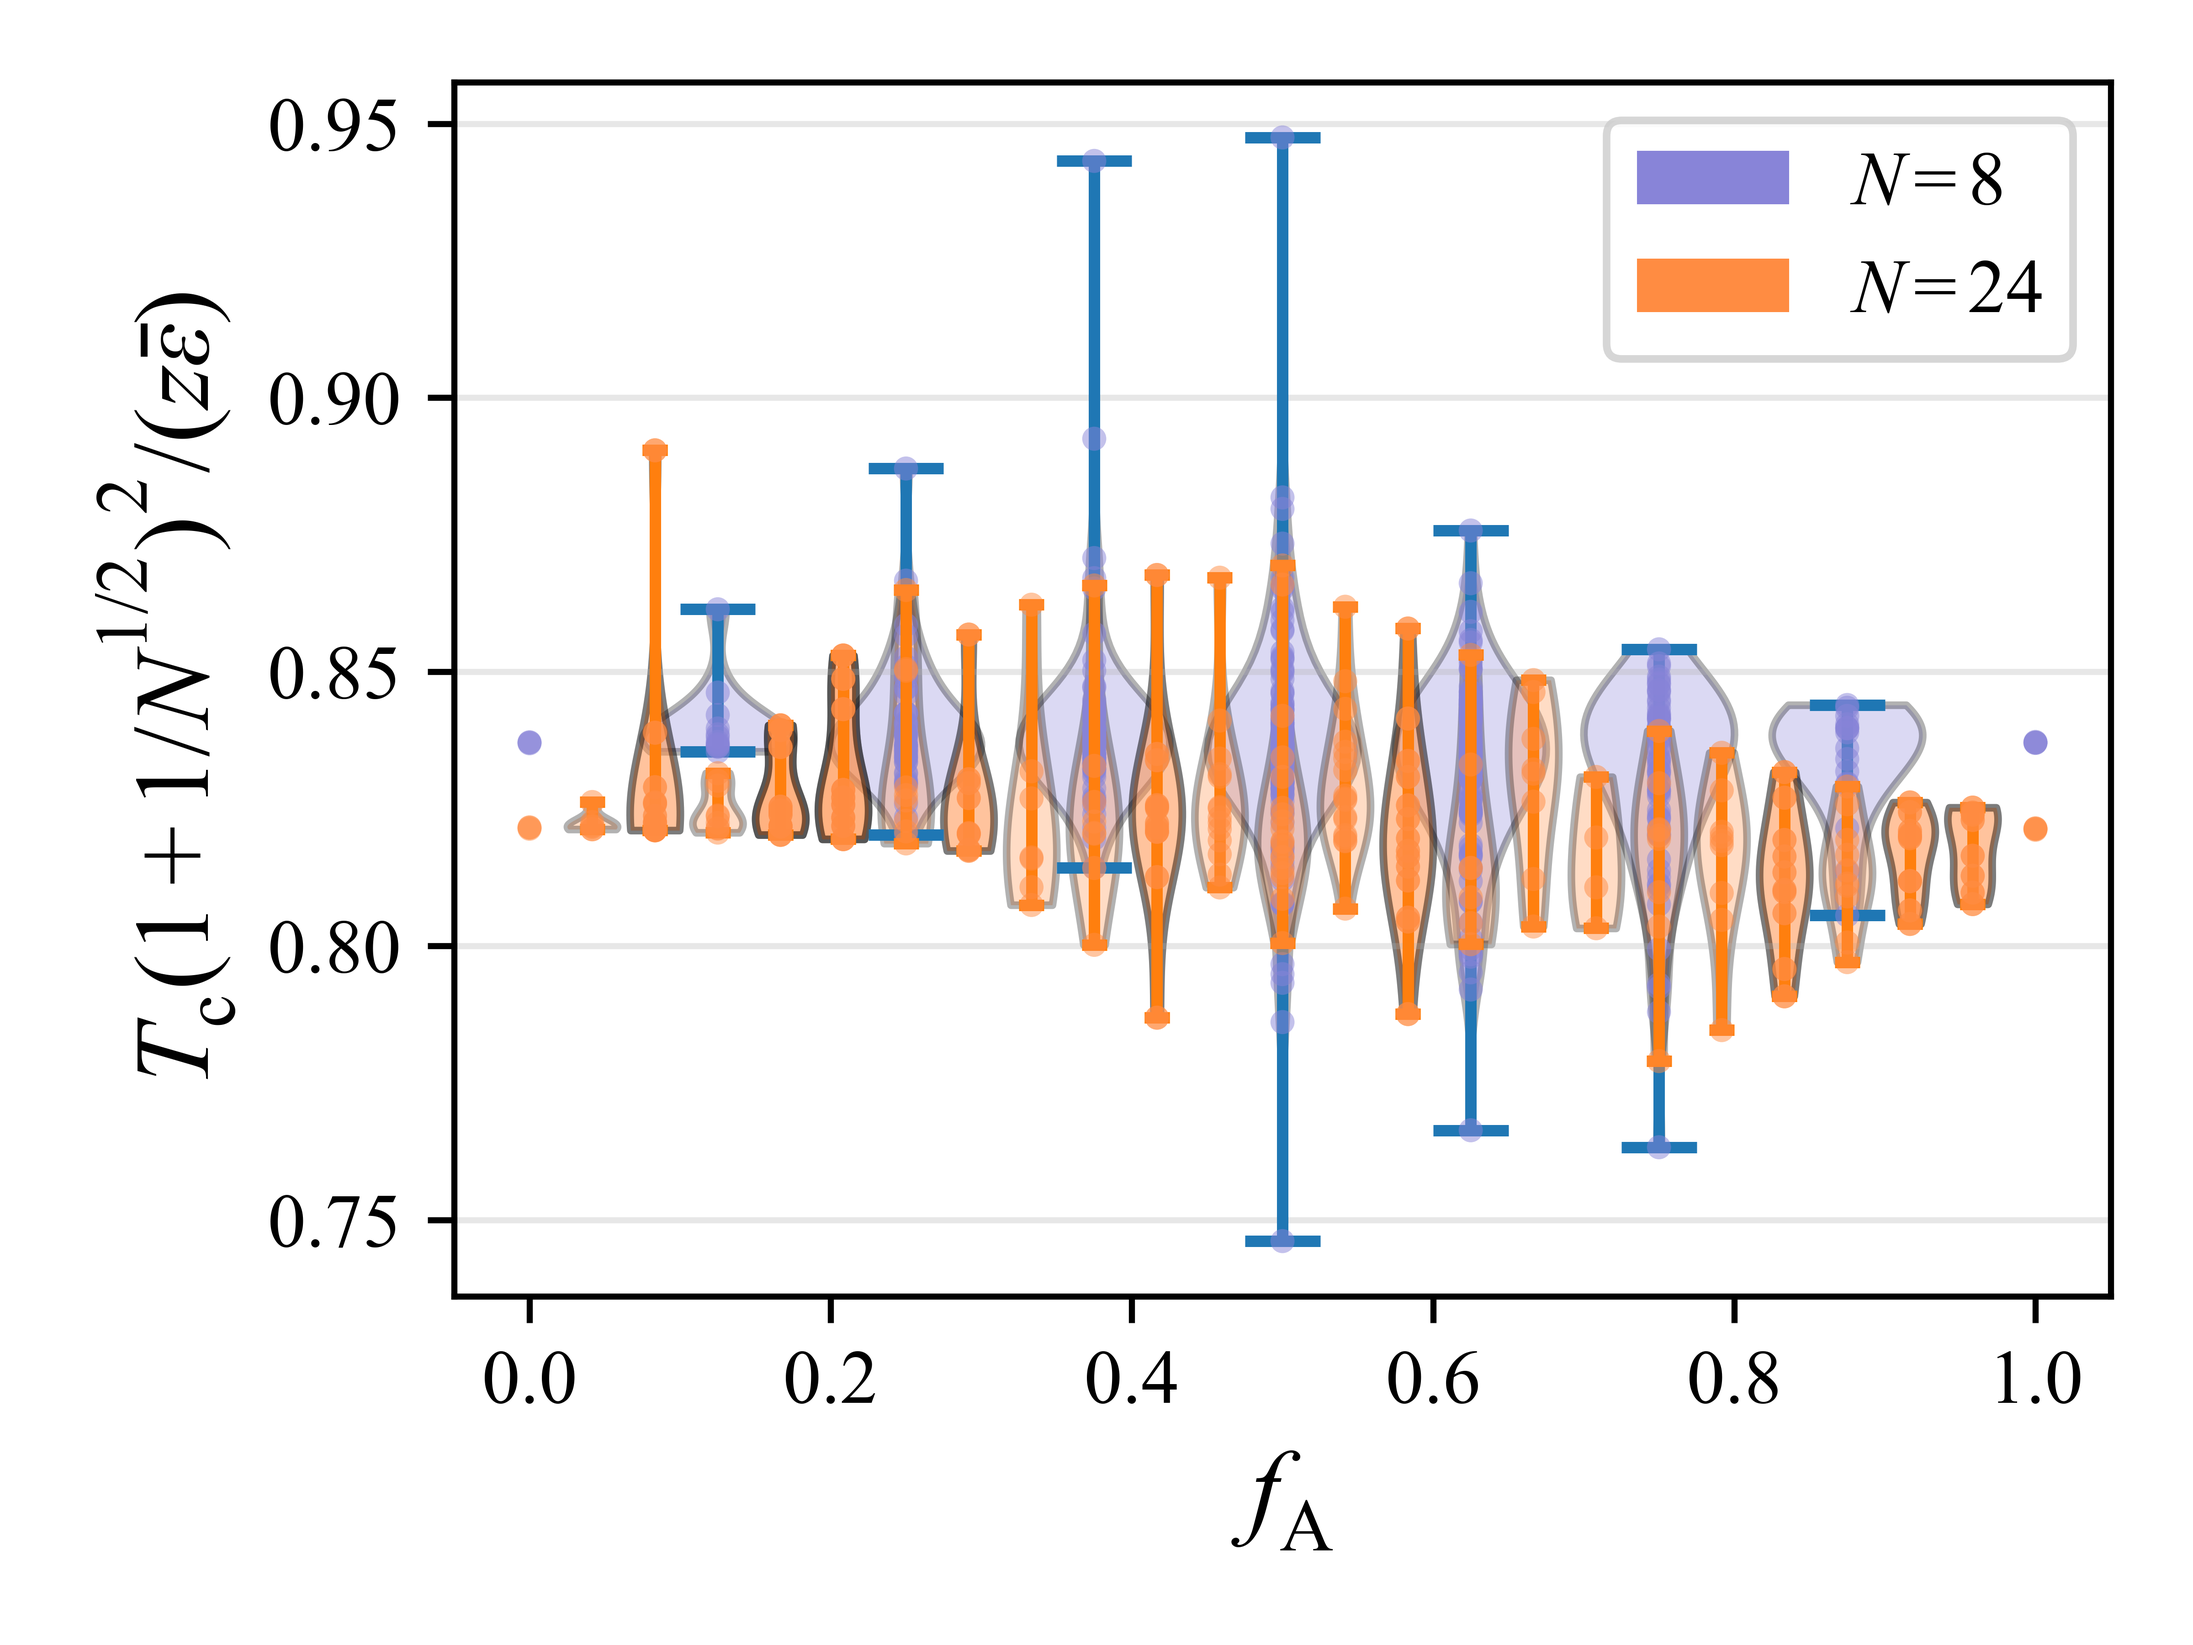
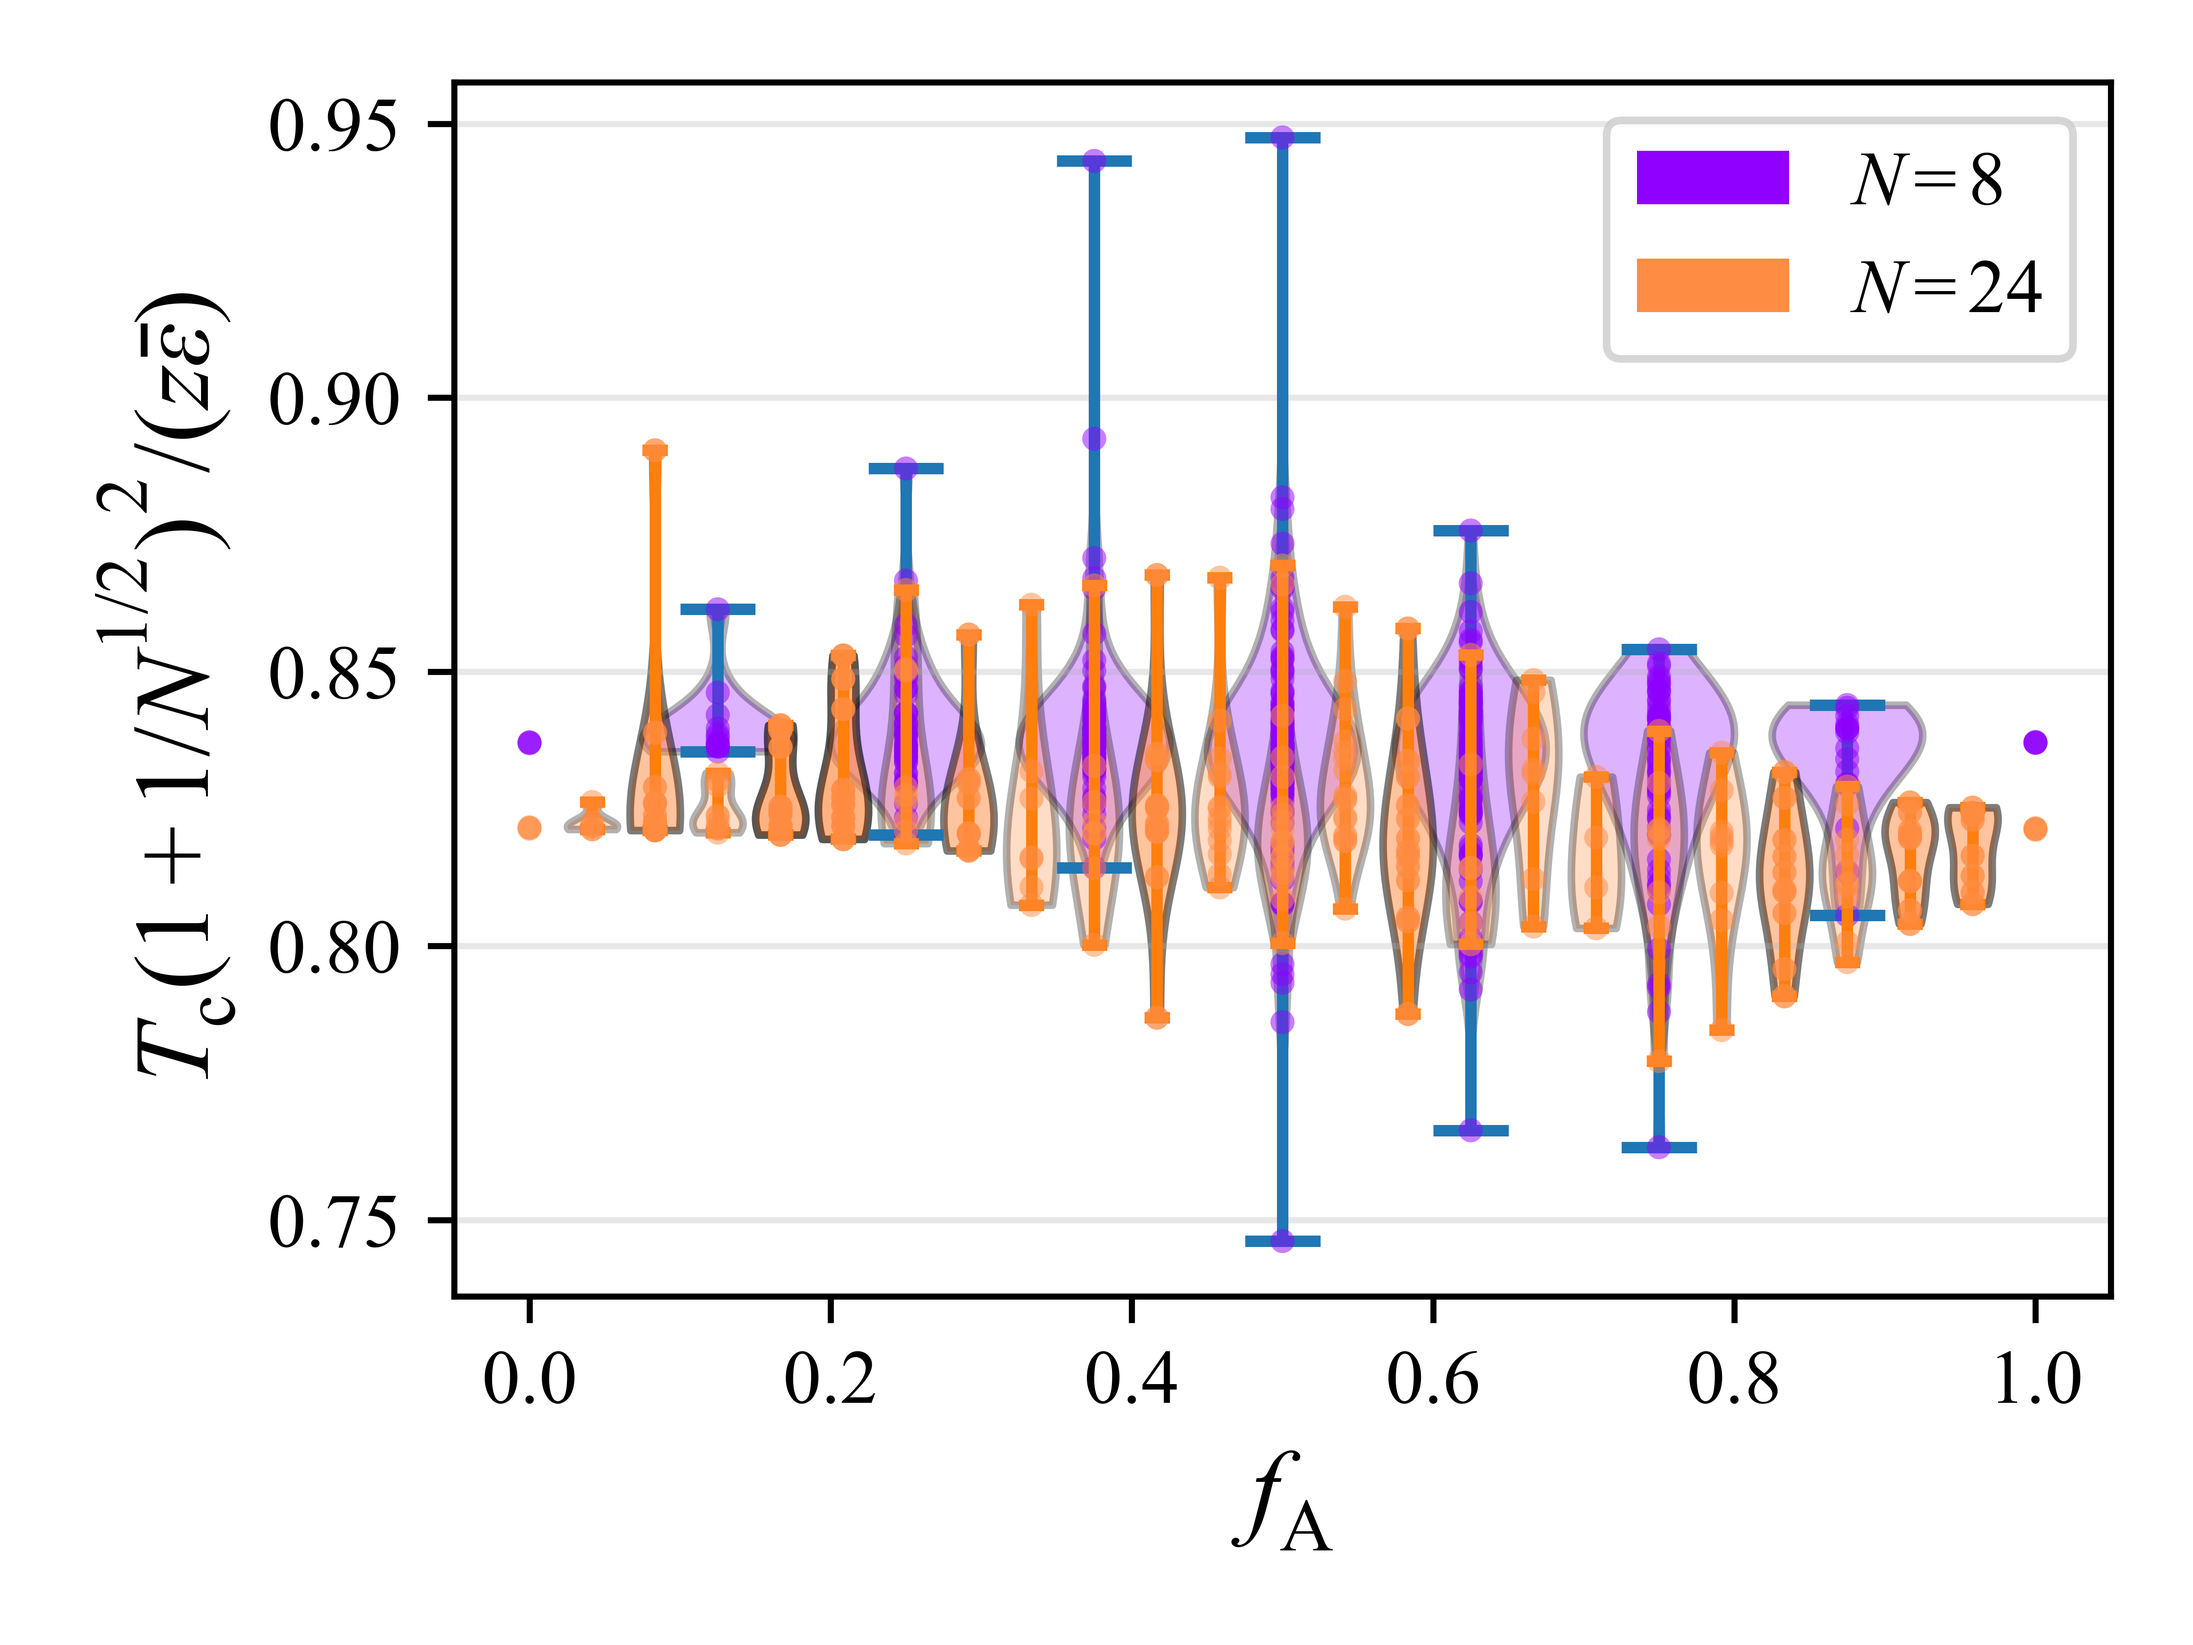
updated fig 2

diff --git a/Fig2.py b/Fig2.py
@@ -70,7 +70,7 @@ mpl.rcParams['mathtext.rm'] = 'Times New Roman'
 mpl.rcParams['mathtext.it'] = 'Times New Roman:italic'
 mpl.rcParams['mathtext.bf'] = 'Times New Roman:bold'
 
-def plot_violin_for_N(N, ax, color='#8884d8'):
+def plot_violin_for_N(N, ax, color):
     """Plot violin plot for a given N value"""
     mask = (N_list == N)
     
@@ -150,7 +150,7 @@ def plot_violin_for_N(N, ax, color='#8884d8'):
 fig, ax = plt.subplots(figsize=(4, 3))
 
 # Plot N=8 in blue
-plot_violin_for_N(8, ax, color='#8884d8')
+plot_violin_for_N(8, ax, color='#8f00ff')
 
 # Plot N=24 in orange
 plot_violin_for_N(24, ax, color='#ff8c42')
@@ -162,7 +162,7 @@ ax.grid(True, alpha=0.3, axis='y')
 
 # Create legend
 from matplotlib.patches import Patch
-legend_elements = [Patch(facecolor='#8884d8', alpha=1, label=r'$N=8$'),
+legend_elements = [Patch(facecolor='#8f00ff', alpha=1, label=r'$N=8$'),
                    Patch(facecolor='#ff8c42', alpha=1, label=r'$N=24$')]
 ax.legend(handles=legend_elements, loc='best')
 
